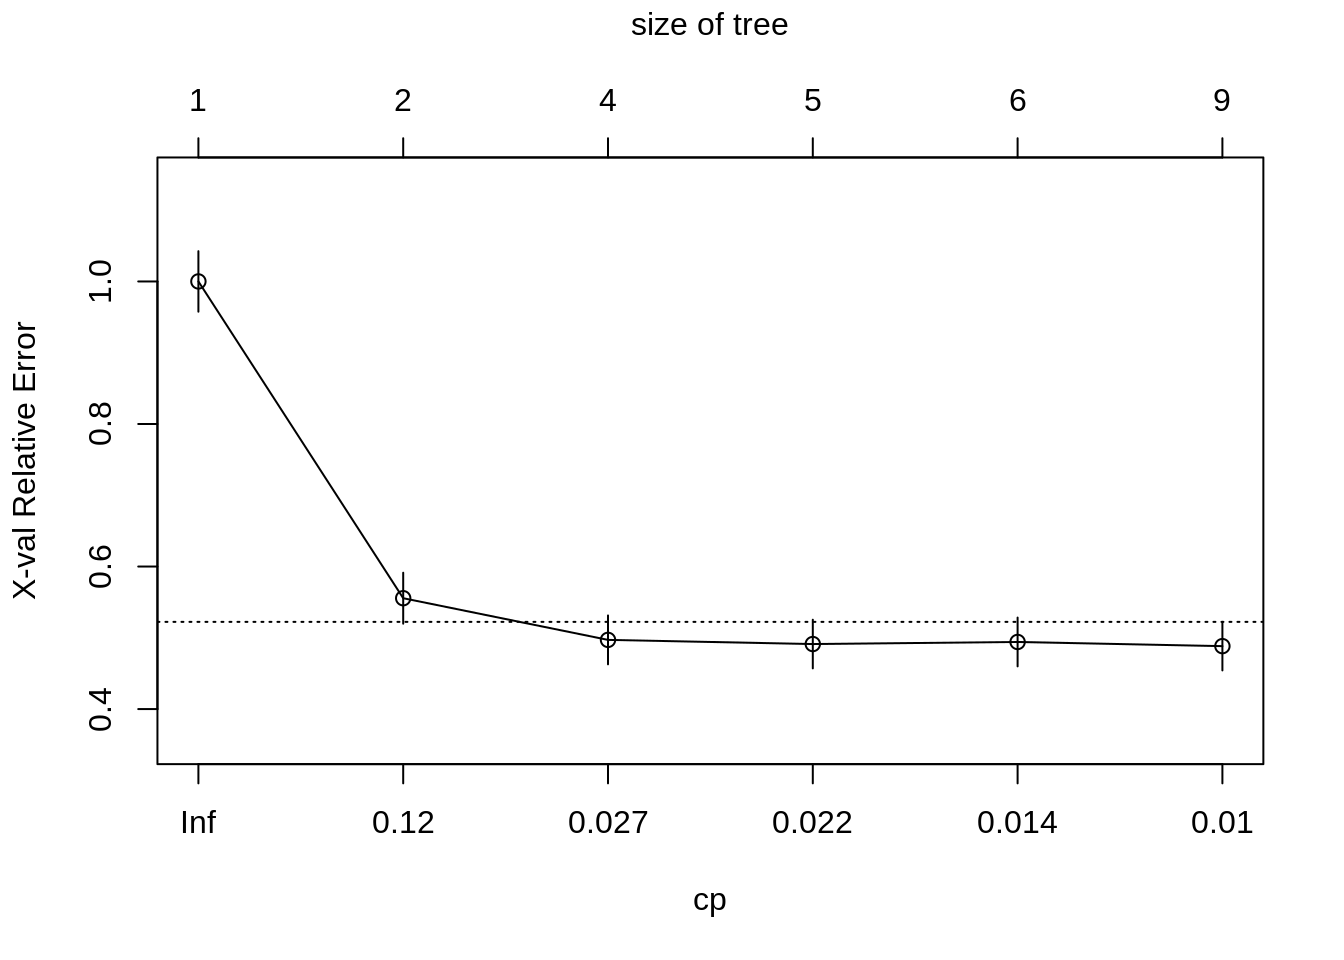
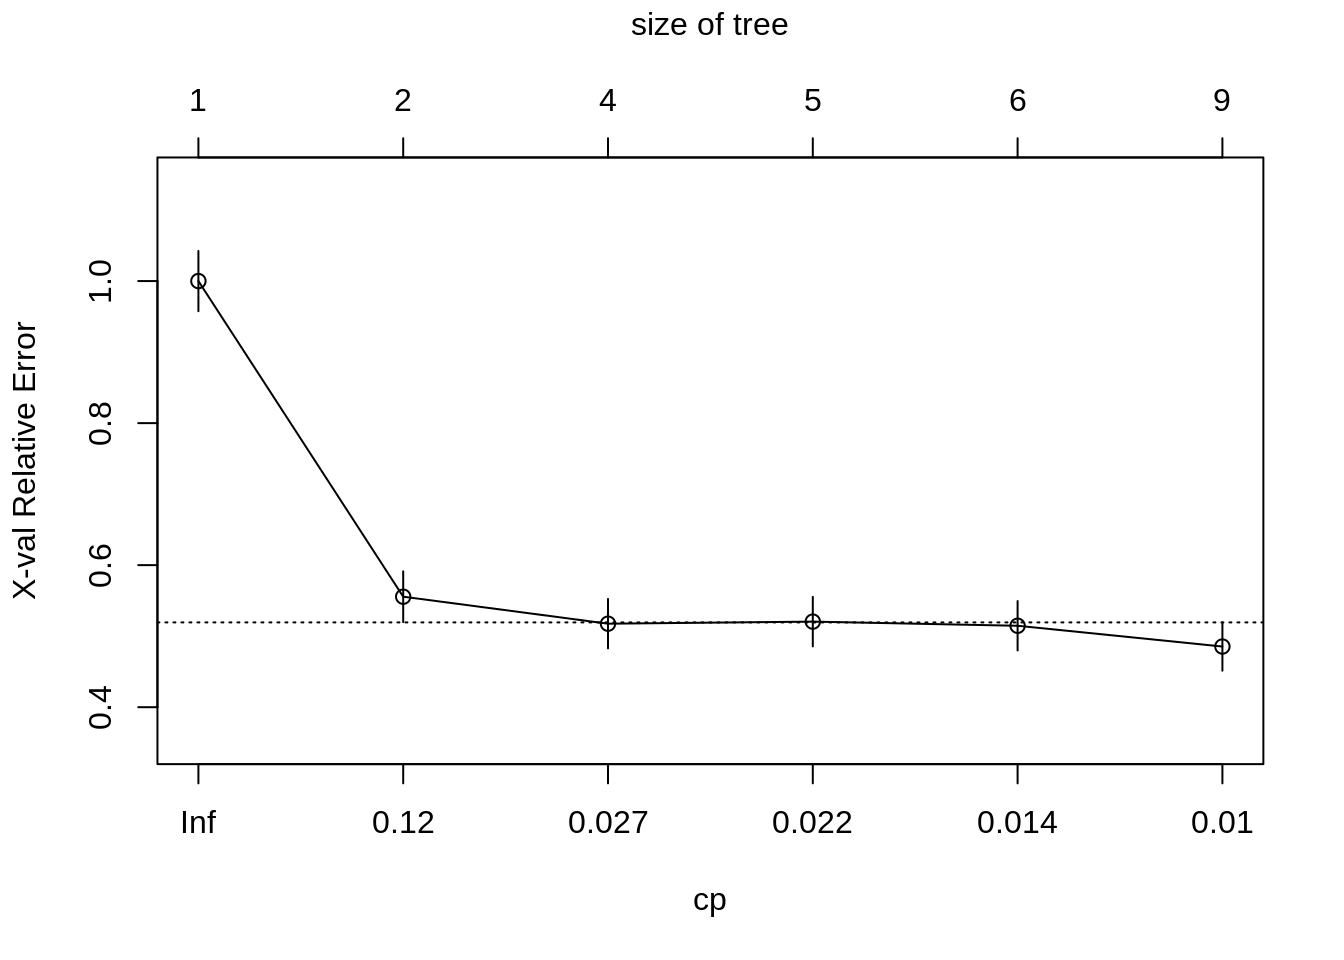
Deploy lebebr01/stat_thinking to github.com/lebebr01/stat_thinking.git:master

diff --git a/docs/classification.html b/docs/classification.html
@@ -324,10 +324,10 @@ titanic &lt;-<span class="st"> </span><span class="kw">bind_rows</span>(titanic_
 ##         CP nsplit rel error  xerror     xstd
 ## 1 0.444444      0   1.00000 1.00000 0.042446
 ## 2 0.030702      1   0.55556 0.55556 0.035750
-## 3 0.023392      3   0.49415 0.49708 0.034295
-## 4 0.020468      4   0.47076 0.49123 0.034140
-## 5 0.010234      5   0.45029 0.49415 0.034217
-## 6 0.010000      8   0.41813 0.48830 0.034061</code></pre>
+## 3 0.023392      3   0.49415 0.51754 0.034823
+## 4 0.020468      4   0.47076 0.52047 0.034897
+## 5 0.010234      5   0.45029 0.51462 0.034749
+## 6 0.010000      8   0.41813 0.48538 0.033983</code></pre>
 <div class="sourceCode"><pre class="sourceCode r"><code class="sourceCode r"><span class="kw">plotcp</span>(class_tree)</code></pre></div>
 <p><img src="05-classification_files/figure-html/unnamed-chunk-6-1.png" width="672" /></p>
 <div class="sourceCode"><pre class="sourceCode r"><code class="sourceCode r">prune_class_tree &lt;-<span class="st"> </span><span class="kw">prune</span>(class_tree, <span class="dt">cp =</span> .<span class="dv">02</span>)

diff --git a/docs/05-classification.md b/docs/05-classification.md
@@ -249,10 +249,10 @@ printcp(class_tree)
 ##         CP nsplit rel error  xerror     xstd
 ## 1 0.444444      0   1.00000 1.00000 0.042446
 ## 2 0.030702      1   0.55556 0.55556 0.035750
-## 3 0.023392      3   0.49415 0.49708 0.034295
-## 4 0.020468      4   0.47076 0.49123 0.034140
-## 5 0.010234      5   0.45029 0.49415 0.034217
-## 6 0.010000      8   0.41813 0.48830 0.034061
+## 3 0.023392      3   0.49415 0.51754 0.034823
+## 4 0.020468      4   0.47076 0.52047 0.034897
+## 5 0.010234      5   0.45029 0.51462 0.034749
+## 6 0.010000      8   0.41813 0.48538 0.033983
 ```
 
 ```r
